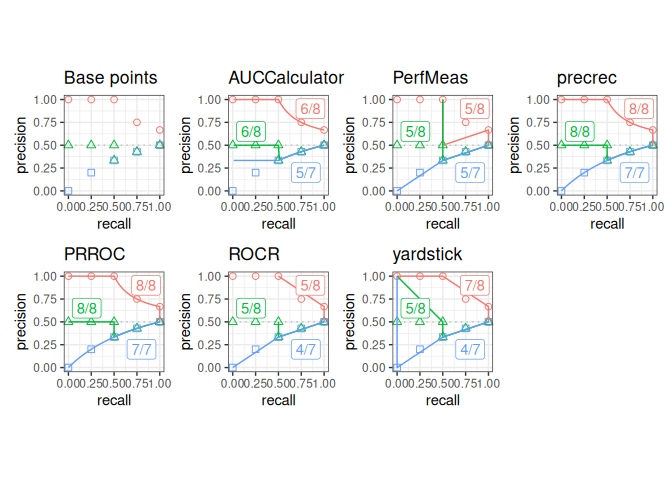
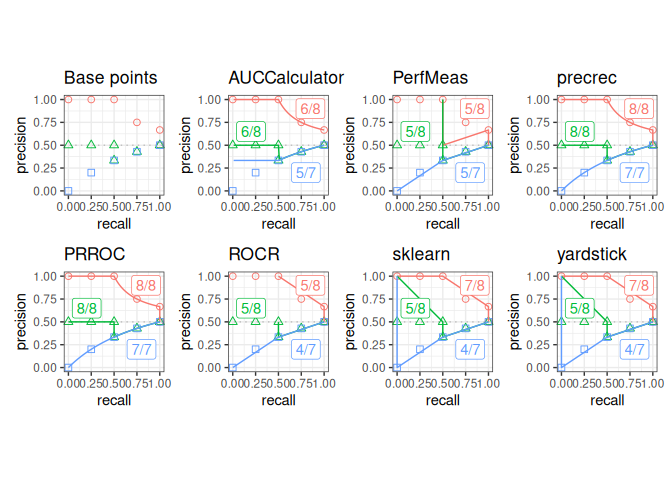
Add sklearn to the curve evaluation plot in the readme
The fig1 chunk still listed the six tools that predated sklearn, so the
readme plot did not show the tool that the rest of the page describes.
Adding it fills the 4x2 panel grid exactly: base points plus seven tools.

The benchmark table numbers moved because re-knitting re-runs the
benchmark.

Changed region(s): [[0.75, 0.5, 1.0, 0.8438], [0.5625, 0.5, 0.6875, 0.5625]]

diff --git a/README.md b/README.md
@@ -58,9 +58,9 @@ precision-recall curves.
 ## Load library
 library(prcbench)
 
-## Plot base points and the result of 6 tools on pre-defined test sets (c1, c2, and c3)
+## Plot base points and the result of 7 tools on pre-defined test sets (c1, c2, and c3)
 toolset <- create_toolset(c(
-  "precrec", "ROCR", "AUCCalculator", "PerfMeas", "PRROC", "yardstick"
+  "precrec", "ROCR", "AUCCalculator", "PerfMeas", "PRROC", "yardstick", "sklearn"
 ))
 testset <- create_testset("curve", c("c1", "c2", "c3"))
 scores1 <- run_evalcurve(testset, toolset)
@@ -92,13 +92,13 @@ print(res)
 
 | testset | toolset | toolname      |  min |   lq | mean | median |   uq |  max | neval |
 |:--------|:--------|:--------------|-----:|-----:|-----:|-------:|-----:|-----:|------:|
-| b10     | auc7    | AUCCalculator | 1.11 | 1.13 | 1.41 |   1.23 | 1.23 | 2.33 |     5 |
-| b10     | auc7    | PerfMeas      | 0.08 | 0.08 | 0.11 |   0.09 | 0.11 | 0.21 |     5 |
-| b10     | auc7    | precrec       | 6.35 | 6.43 | 6.50 |   6.43 | 6.44 | 6.88 |     5 |
-| b10     | auc7    | PRROC         | 0.17 | 0.17 | 0.20 |   0.17 | 0.18 | 0.30 |     5 |
-| b10     | auc7    | ROCR          | 1.81 | 1.83 | 1.98 |   1.88 | 2.14 | 2.24 |     5 |
-| b10     | auc7    | sklearn       | 0.44 | 0.46 | 1.85 |   0.48 | 0.52 | 7.36 |     5 |
-| b10     | auc7    | yardstick     | 1.78 | 1.78 | 1.94 |   1.84 | 1.91 | 2.36 |     5 |
+| b10     | auc7    | AUCCalculator | 1.02 | 1.16 | 1.29 |   1.18 | 1.19 | 1.88 |     5 |
+| b10     | auc7    | PerfMeas      | 0.08 | 0.09 | 0.11 |   0.09 | 0.10 | 0.21 |     5 |
+| b10     | auc7    | precrec       | 5.97 | 6.03 | 6.21 |   6.04 | 6.31 | 6.73 |     5 |
+| b10     | auc7    | PRROC         | 0.16 | 0.17 | 0.20 |   0.17 | 0.18 | 0.30 |     5 |
+| b10     | auc7    | ROCR          | 1.80 | 1.80 | 1.94 |   1.87 | 1.96 | 2.28 |     5 |
+| b10     | auc7    | sklearn       | 0.43 | 0.43 | 0.49 |   0.43 | 0.44 | 0.75 |     5 |
+| b10     | auc7    | yardstick     | 1.72 | 1.72 | 1.84 |   1.73 | 1.84 | 2.21 |     5 |
 
 The `sklearn` row of the table includes the R/Python conversion
 overhead, so it measures the round trip rather than the scikit-learn
